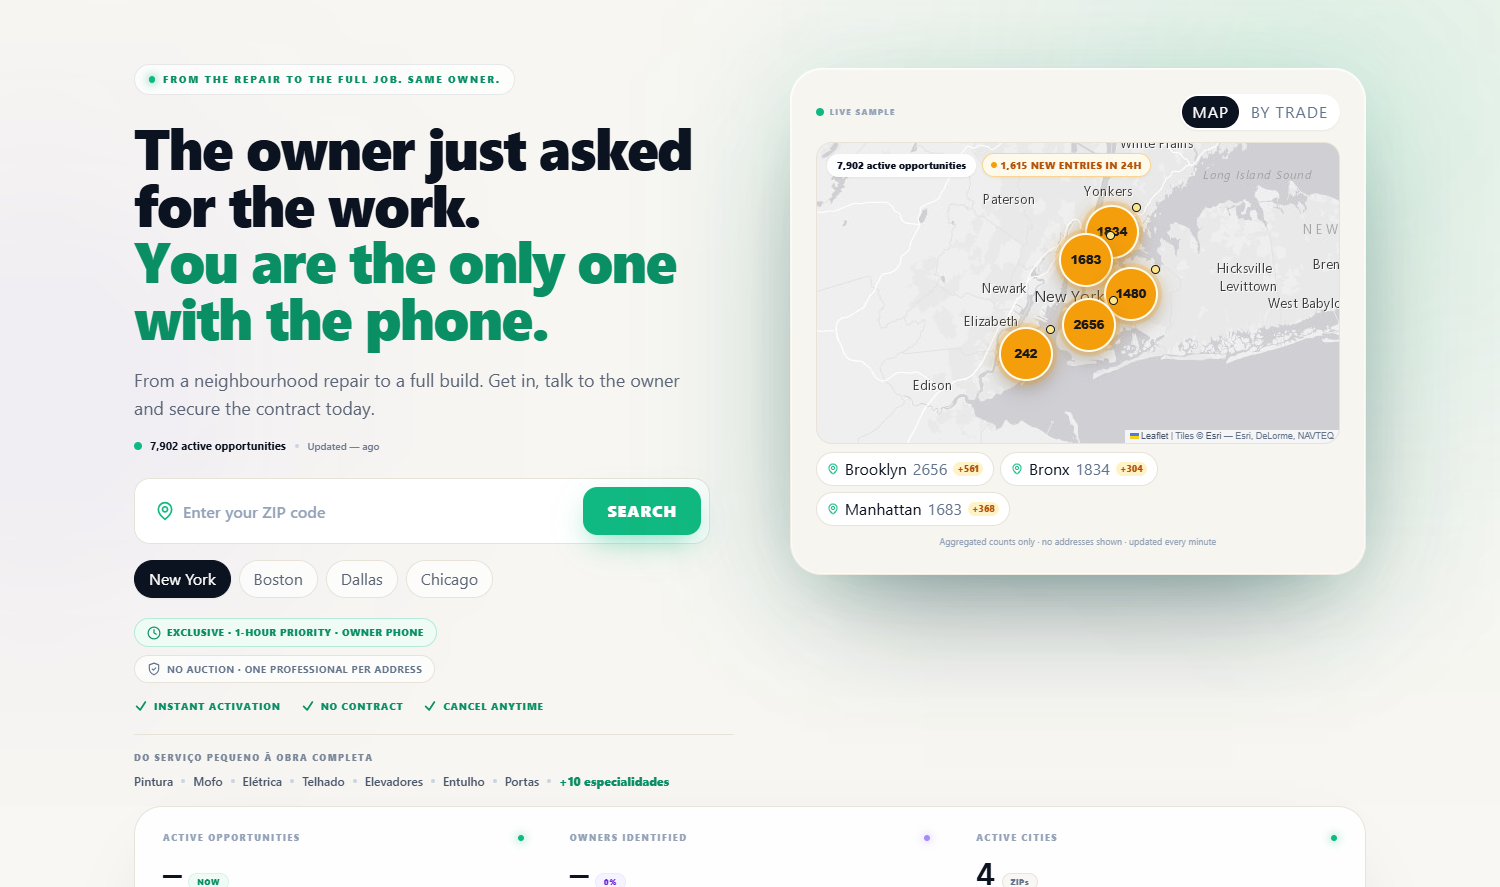
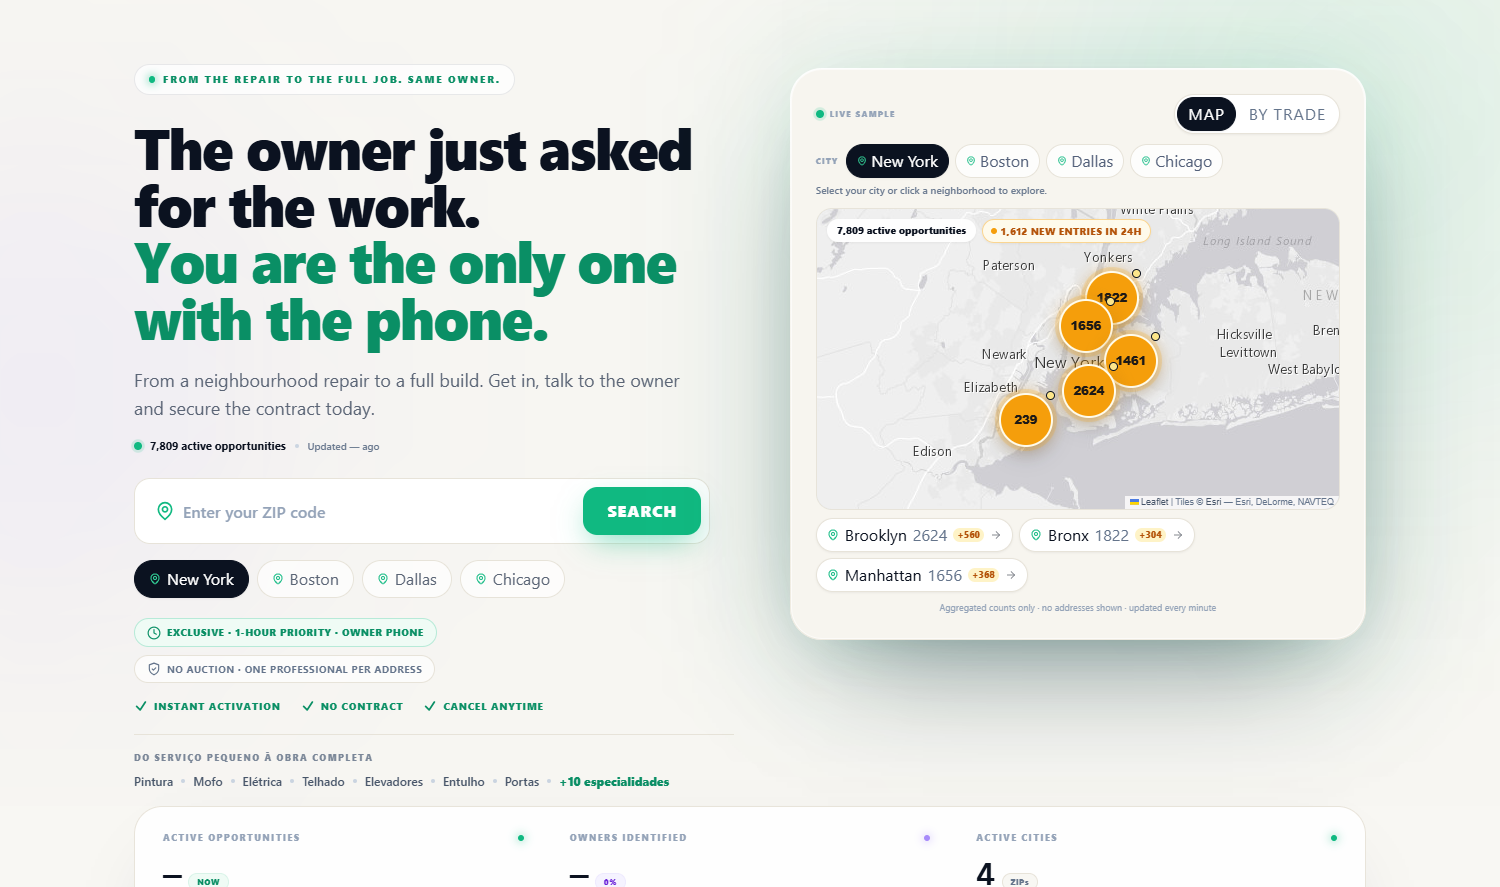
fix(landing): guide map interaction and enforce route locale
UX: adds an instruction line, a city selector inside the hero card synced with the hero chips, map-pin icons on city chips, a bordered tab control and arrow/hover affordances on neighborhood chips so the map no longer looks static.

i18n: the /en, /pt and /es prefix is now authoritative (the provider ignores stale cookies/localStorage); switching the flag navigates to the new locale while preserving query/hash, and html lang follows en-US/pt-BR/es-ES. Rewrites the map and teaser Portuguese copy in PT-BR (endereços, contatos, 'Isso está acontecendo perto de você').

Audit: validates the instruction and card selector, card/hero sync, /en with a PT cookie, flag navigation to /pt, html lang, PT-BR teaser copy and the kill-switch fallback. All checks pass; adds locale screenshots.

Changed region(s): [[0.5213, 0.0913, 0.92, 0.7914], [0.092, 0.6392, 0.368, 0.6697]]

diff --git a/frontend/app/[locale]/(marketing)/page.tsx b/frontend/app/[locale]/(marketing)/page.tsx
@@ -539,9 +539,19 @@ export default function LandingPage() {
                       key={cityName}
                       type="button"
                       onClick={() => pickHeroCity(cityName)}
+                      aria-pressed={active}
                       data-track={`hero_city_${cityName.toLowerCase().replace(/\s+/g, "_")}`}
-                      className={`rounded-full border px-3.5 py-1.5 text-[11.5px] font-bold transition ${active ? "border-[#0b1220] bg-[#0b1220] text-white shadow-sm" : "border-[#e7e3d9] bg-white/70 text-[#5b6576] hover:border-[#10b981]/45 hover:bg-white hover:text-[#0b1220]"}`}
+                      className={`inline-flex cursor-pointer items-center justify-center gap-1.5 rounded-full border px-3.5 py-1.5 text-[11.5px] font-bold transition active:scale-95 focus-visible:outline-none focus-visible:ring-2 focus-visible:ring-[#10b981]/50 ${
+                        active
+                          ? "border-[#0b1220] bg-[#0b1220] text-white shadow-sm"
+                          : "border-[#e7e3d9] bg-white/70 text-[#5b6576] hover:-translate-y-0.5 hover:border-[#10b981]/60 hover:bg-white hover:text-[#0b1220] hover:shadow-sm"
+                      }`}
                     >
+                      <MapPin
+                        className={`h-3 w-3 ${
+                          active ? "text-[#34e0a1]" : "text-[#10b981]"
+                        }`}
+                      />
                       {cityName}
                     </button>
                   );
@@ -590,7 +600,7 @@ export default function LandingPage() {
               <div className="pointer-events-none absolute -inset-6 rounded-[2.4rem] bg-[#10b981]/[0.10] blur-3xl" />
               <div className="relative w-full max-w-[620px] rounded-[2rem] bg-gradient-to-b from-white/90 via-[#f6f4ee] to-[#eeeae0] p-[1px] shadow-[0_50px_130px_-45px_rgba(15,23,42,0.55),0_20px_60px_-30px_rgba(16,185,129,0.22)]">
                 <div className="rounded-[1.95rem] border border-white/60 bg-[#f7f5ef] p-4 sm:p-6">
-                  <div className="flex items-center justify-between gap-2 pb-3">
+                  <div className="flex items-center justify-between gap-2 pb-2.5">
                     <span className="inline-flex items-center gap-1.5 text-[8px] font-black uppercase tracking-[0.16em] text-[#94a3b8]">
                       <span className="relative flex h-2 w-2">
                         <span className="absolute inline-flex h-full w-full animate-ping rounded-full bg-[#10b981] opacity-50" />
@@ -598,7 +608,7 @@ export default function LandingPage() {
                       </span>
                       {t("landing.liveMap.kicker")}
                     </span>
-                    <div className="flex items-center gap-0.5 rounded-full bg-white p-0.5 shadow-sm">
+                    <div className="flex items-center gap-0.5 rounded-full border border-[#e7e3d9] bg-white p-0.5 shadow-sm">
                       {(["map", "trades"] as const)
                         .filter((tab) => tab !== "map" || mapEnabled)
                         .map((tab) => (
@@ -608,10 +618,10 @@ export default function LandingPage() {
                           data-track={`hero_tab_${tab}`}
                           onClick={() => setHeroTab(tab)}
                           aria-pressed={heroTab === tab}
-                          className={`rounded-full px-2.5 py-1 text-[9.5px] font-black uppercase tracking-[0.06em] transition ${
+                          className={`cursor-pointer rounded-full border px-2.5 py-1 text-[9.5px] font-black uppercase tracking-[0.06em] transition active:scale-95 focus-visible:outline-none focus-visible:ring-2 focus-visible:ring-[#10b981]/50 ${
                             heroTab === tab
-                              ? "bg-[#0b1220] text-white"
-                              : "text-[#64748b] hover:text-[#0b1220]"
+                              ? "border-[#0b1220] bg-[#0b1220] text-white shadow-sm"
+                              : "border-transparent text-[#64748b] hover:border-[#e7e3d9] hover:bg-[#f7f5ef] hover:text-[#0b1220]"
                           }`}
                         >
                           {tab === "map"
@@ -621,6 +631,46 @@ export default function LandingPage() {
                       ))}
                     </div>
                   </div>
+
+                  <div className="flex flex-wrap items-center gap-1.5 pb-1.5">
+                    <span className="mr-0.5 text-[8px] font-black uppercase tracking-[0.14em] text-[#94a3b8]">
+                      {t("landing.liveMap.city_label")}
+                    </span>
+                    {CITIES.map((cityName) => {
+                      const active = !heroZip && heroCity === cityName;
+                      return (
+                        <button
+                          key={`card-${cityName}`}
+                          type="button"
+                          onClick={() => pickHeroCity(cityName)}
+                          aria-pressed={active}
+                          data-track={`card_city_${cityName
+                            .toLowerCase()
+                            .replace(/\s+/g, "_")}`}
+                          className={`inline-flex cursor-pointer items-center gap-1 rounded-full border px-2.5 py-1 text-[10px] font-bold transition active:scale-95 focus-visible:outline-none focus-visible:ring-2 focus-visible:ring-[#10b981]/50 ${
+                            active
+                              ? "border-[#0b1220] bg-[#0b1220] text-white shadow-sm"
+                              : "border-[#e7e3d9] bg-white/80 text-[#54617a] hover:-translate-y-0.5 hover:border-[#10b981]/60 hover:text-[#0b1220] hover:shadow-sm"
+                          }`}
+                        >
+                          <MapPin
+                            className={`h-2.5 w-2.5 ${
+                              active ? "text-[#34e0a1]" : "text-[#10b981]"
+                            }`}
+                          />
+                          {cityName}
+                        </button>
+                      );
+                    })}
+                    {heroZip ? (
+                      <span className="rounded-full border border-[#10b981]/30 bg-[#effbf5] px-2 py-1 text-[9.5px] font-black uppercase tracking-[0.06em] text-[#0a8f65]">
+                        ZIP {heroZip}
+                      </span>
+                    ) : null}
+                  </div>
+                  <p className="pb-2.5 text-[10px] font-medium leading-snug text-[#64748b]">
+                    {t("landing.liveMap.hint")}
+                  </p>
 
                   {heroTab === "map" ? (
                     <PublicLiveMap

diff --git a/frontend/lib/i18n/pt.ts b/frontend/lib/i18n/pt.ts
@@ -986,19 +986,22 @@ const PT: Dict = {
   "landing.liveMap.kicker": "AMOSTRA AO VIVO",
   "landing.liveMap.tab_map": "Mapa",
   "landing.liveMap.tab_trades": "Por ofício",
-  "landing.liveMap.aria": "Mapa de oportunidades ao vivo perto de si",
-  "landing.liveMap.unavailable": "Mapa ao vivo indisponível neste momento.",
-  "landing.liveMap.footnote": "Apenas contagens agregadas · sem moradas · atualizado a cada minuto",
+  "landing.liveMap.hint": "Escolha sua cidade ou clique em um bairro para explorar.",
+  "landing.liveMap.city_label": "Cidade",
+  "landing.liveMap.explore": "Explorar {zone}",
+  "landing.liveMap.aria": "Mapa de oportunidades ao vivo perto de você",
+  "landing.liveMap.unavailable": "Mapa ao vivo indisponível no momento.",
+  "landing.liveMap.footnote": "Apenas contagens agregadas · sem endereços · atualizado a cada minuto",
   "landing.mapTeaserTag": "Zona ao vivo",
   "landing.mapTeaserKicker": "Zona ao vivo",
-  "landing.mapTeaserTitle": "Isto está a acontecer perto de si",
-  "landing.mapTeaserSub": "Crie uma conta grátis para ver as moradas exatas, os contactos dos proprietários e reservar antes dos outros empreiteiros.",
-  "landing.mapTeaserStats": "{count} oportunidades abertas esta semana · {fresh} novas nas últimas 24h",
-  "landing.mapTeaserStatsNoFresh": "{count} oportunidades abertas esta semana",
-  "landing.mapTeaserUnlock1": "Morada exata e detalhes do imóvel",
-  "landing.mapTeaserUnlock2": "Contacto e telefone do proprietário",
+  "landing.mapTeaserTitle": "Isso está acontecendo perto de você",
+  "landing.mapTeaserSub": "Crie uma conta grátis para ver os endereços exatos, os contatos dos proprietários e reservar antes dos outros empreiteiros.",
+  "landing.mapTeaserStats": "{count} oportunidades abertas nesta semana · {fresh} novas nas últimas 24h",
+  "landing.mapTeaserStatsNoFresh": "{count} oportunidades abertas nesta semana",
+  "landing.mapTeaserUnlock1": "Endereço exato e detalhes do imóvel",
+  "landing.mapTeaserUnlock2": "Contato e telefone do proprietário",
   "landing.mapTeaserUnlock3": "Reserva exclusiva durante 60 minutos",
-  "landing.mapTeaserNote": "As contagens são agregadas e anonimizadas. Nenhuma morada ou dado de proprietário é mostrado publicamente.",
+  "landing.mapTeaserNote": "As contagens são agregadas e anonimizadas. Nenhum endereço ou dado de proprietário é mostrado publicamente.",
   "landing.p1Search": "Buscar",
   "landing.p1MinNotice": "Mostrando {n} especialidades com 10+ oportunidades ativas.",
   "landing.p1MinNoticeLimited": "Mostrando {n} de {total} especialidades com 10+ oportunidades ativas.",

diff --git a/frontend/components/landing/PublicLiveMap.tsx b/frontend/components/landing/PublicLiveMap.tsx
@@ -1,7 +1,7 @@
 "use client";
 
 import { useEffect, useRef, useState } from "react";
-import { MapPin } from "lucide-react";
+import { ArrowRight, MapPin } from "lucide-react";
 
 import { useI18n } from "@/lib/i18n";
 import {
@@ -259,16 +259,24 @@ export function PublicLiveMap({
               type="button"
               data-map-zone={zone.slug}
               onClick={() => onZoneSelect(zone, active?.label ?? city)}
-              className="group inline-flex items-center gap-1.5 rounded-full border border-[#e7e3d9] bg-white px-2.5 py-1 text-[10.5px] font-bold text-[#0b1220] transition hover:border-[#10b981]/50 hover:text-[#0a8f65]"
+              aria-label={t("landing.liveMap.explore").replace(
+                "{zone}",
+                zone.label
+              )}
+              title={t("landing.liveMap.explore").replace("{zone}", zone.label)}
+              className="group inline-flex cursor-pointer items-center gap-1.5 rounded-full border border-[#e7e3d9] bg-white px-2.5 py-1 text-[10.5px] font-bold text-[#0b1220] shadow-sm transition active:scale-95 hover:border-[#0a8f65] hover:bg-[#0a8f65] hover:text-white hover:shadow"
             >
-              <MapPin className="h-3 w-3 text-[#10b981]" />
+              <MapPin className="h-3 w-3 text-[#10b981] transition group-hover:text-white" />
               {zone.label}
-              <span className="text-[#64748b]">{zone.count}</span>
+              <span className="text-[#64748b] transition group-hover:text-white/80">
+                {zone.count}
+              </span>
               {zone.fresh > 0 ? (
-                <span className="rounded-full bg-[#fef3c7] px-1 text-[9px] font-black text-[#b45309]">
+                <span className="rounded-full bg-[#fef3c7] px-1 text-[9px] font-black text-[#b45309] transition group-hover:bg-white/20 group-hover:text-white">
                   +{zone.fresh}
                 </span>
               ) : null}
+              <ArrowRight className="h-3 w-3 opacity-50 transition group-hover:translate-x-0.5 group-hover:opacity-100" />
             </button>
           ))}
         </div>

diff --git a/frontend/lib/i18n.tsx b/frontend/lib/i18n.tsx
@@ -7,6 +7,7 @@ import {
   useState,
   ReactNode,
 } from "react";
+import { usePathname, useRouter } from "next/navigation";
 
 import EN from "./i18n/en";
 
@@ -19,6 +20,12 @@ export const LANGS: { code: Lang; label: string; native: string }[] = [
 ];
 
 export const LANGS_VALID: Lang[] = ["pt", "en", "es"];
+
+const HTML_LANG: Record<Lang, string> = {
+  pt: "pt-BR",
+  en: "en-US",
+  es: "es-ES",
+};
 
 const STORAGE_KEY = "NEXT_LOCALE";
 const COOKIE_KEY = "NEXT_LOCALE";
@@ -96,6 +103,8 @@ function persistLocale(l: Lang) {
 }
 
 export function LanguageProvider({ children, initialLocale }: { children: ReactNode; initialLocale?: Lang }) {
+  const router = useRouter();
+  const pathname = usePathname();
   const [lang, setLangState] = useState<Lang>(initialLocale || "en");
   const [dict, setDict] = useState<Dict>(EN);
 
@@ -104,6 +113,12 @@ export function LanguageProvider({ children, initialLocale }: { children: ReactN
     setLangState(initial);
     persistLocale(initial);
   }, [initialLocale]);
+
+  useEffect(() => {
+    if (typeof document !== "undefined") {
+      document.documentElement.lang = HTML_LANG[lang] ?? "en-US";
+    }
+  }, [lang]);
 
   useEffect(() => {
     let active = true;
@@ -129,6 +144,18 @@ export function LanguageProvider({ children, initialLocale }: { children: ReactN
   const setLang = (l: Lang) => {
     setLangState(l);
     persistLocale(l);
+    if (typeof window === "undefined") return;
+    // O prefixo da URL manda no idioma. Trocar a bandeira tem de navegar
+    // (ex.: /en/dashboard -> /pt/dashboard), não apenas trocar o dicionário.
+    const segments = (pathname || "/").split("/");
+    const current = segments[1];
+    if (!LANGS_VALID.includes(current as Lang)) return;
+    if (current === l) return;
+    const rest = segments.slice(2).join("/");
+    const suffix = rest ? `/${rest.replace(/\/+$/, "")}` : "";
+    const search = window.location.search || "";
+    const hash = window.location.hash || "";
+    router.push(`/${l}${suffix}${search}${hash}`);
   };
 
   // ICU MessageFormat pluralization support

diff --git a/frontend/lib/i18n/es.ts b/frontend/lib/i18n/es.ts
@@ -995,6 +995,9 @@ const ES: Dict = {
   "landing.liveMap.kicker": "MUESTRA EN VIVO",
   "landing.liveMap.tab_map": "Mapa",
   "landing.liveMap.tab_trades": "Por oficio",
+  "landing.liveMap.hint": "Elige tu ciudad o haz clic en un barrio para explorar.",
+  "landing.liveMap.city_label": "Ciudad",
+  "landing.liveMap.explore": "Explorar {zone}",
   "landing.liveMap.aria": "Mapa de oportunidades en vivo cerca de ti",
   "landing.liveMap.unavailable": "Mapa en vivo no disponible en este momento.",
   "landing.liveMap.footnote": "Solo recuentos agregados · sin direcciones · actualizado cada minuto",

diff --git a/frontend/lib/i18n/en.ts b/frontend/lib/i18n/en.ts
@@ -996,6 +996,9 @@ const EN: Dict = {
   "landing.liveMap.kicker": "LIVE SAMPLE",
   "landing.liveMap.tab_map": "Map",
   "landing.liveMap.tab_trades": "By trade",
+  "landing.liveMap.hint": "Select your city or click a neighborhood to explore.",
+  "landing.liveMap.city_label": "City",
+  "landing.liveMap.explore": "Explore {zone}",
   "landing.liveMap.aria": "Map of live opportunities near you",
   "landing.liveMap.unavailable": "Live map unavailable right now.",
   "landing.liveMap.footnote": "Aggregated counts only · no addresses shown · updated every minute",

diff --git a/frontend/components/landing/LandingShell.tsx b/frontend/components/landing/LandingShell.tsx
@@ -135,10 +135,6 @@ export default function LandingShell({ children }: { children: React.ReactNode }
   const [modalContext, setModalContext] = useState<ModalContext | null>(null);
 
   useEffect(() => {
-    document.documentElement.lang = lang;
-  }, [lang]);
-
-  useEffect(() => {
     const onScroll = () => setScrolled(window.scrollY > 8);
     onScroll();
     window.addEventListener("scroll", onScroll, { passive: true });

diff --git a/frontend/app/globals.css b/frontend/app/globals.css
@@ -1331,6 +1331,7 @@
   font-size: 11.5px;
   font-weight: 800;
   line-height: 1;
+  cursor: pointer;
   box-shadow: 0 8px 20px rgba(15, 23, 42, 0.28);
   transition: transform 0.15s ease, background 0.15s ease;
 }

diff --git a/docs/LANDING-LIVE-MAP-PLAN.md b/docs/LANDING-LIVE-MAP-PLAN.md
@@ -80,17 +80,34 @@ cálculo corre no máximo **1×/min**, independentemente do tráfego.
 ## 5. UX
 
 - O painel direito do herói ganhou as abas **Map** (defeito) e **By trade**
-  (a grelha existente, sem regressões).
+  (a grelha existente, sem regressões), com borda, hover e `aria-pressed`.
+- **Instrução explícita** no cartão: “Select your city or click a neighborhood
+  to explore.” (PT-BR/ES equivalentes).
+- **Seletor de cidade dentro do cartão** (New York/Boston/Dallas/Chicago) com
+  ícone de mapa, sincronizado com os chips do herói; os chips do herói também
+  têm ícone, `aria-pressed`, hover com elevação e estado `active`.
 - Mapa com bolhas de contagem, halo âmbar nos frescos, overlay
-  `N opportunities` + `N new in 24h`, e as 3 zonas mais quentes em chips.
-- Cidade partilhada com os chips do herói; ZIP muda automaticamente para
-  “By trade”.
+  `N opportunities` + `N new in 24h`, e as 3 zonas mais quentes em chips com
+  seta `→`, hover verde e `aria-label` (“Explore {zone}”).
+- ZIP muda automaticamente para “By trade” e mostra o chip `ZIP xxxxx`.
 - Clique numa zona abre o **teaser** no modal: `LIVE AREA · <cidade>`,
   `<zona>`, contagem + frescos, 3 benefícios e `AuthForm` já em modo
   **Create account** (com empresa).
 - Mobile: cartão abaixo do ZIP, 300 px, `scrollWheelZoom` desligado, chips
   acessíveis por teclado.
 - `prefers-reduced-motion` desliga a pulsação.
+
+## 5.1 Idioma — a rota manda
+
+- O prefixo `/en`, `/pt` ou `/es` é a **única fonte de verdade** do idioma
+  renderizado: o layout passa `initialLocale` ao provider, que ignora
+  `localStorage`/cookie antigos.
+- Trocar a bandeira **navega** para o novo prefixo (`/en/dashboard` →
+  `/pt/dashboard`), preservando query/hash; já não há conteúdo PT com URL EN.
+- `<html lang>` é `en-US`, `pt-BR` ou `es-ES` no SSR e no cliente.
+- Copy PT do mapa/teaser revista para **PT-BR** (“Isso está acontecendo perto
+  de você”, “endereços”, “contatos”), sem formas PT-PT (“moradas”,
+  “contactos”, “perto de si”).
 
 ## 6. Ficheiros
 
@@ -99,7 +116,8 @@ cálculo corre no máximo **1×/min**, independentemente do tráfego.
 - `backend/data/zip_centroids.json` (centroides de Dallas/Boston/NYC).
 - `frontend/components/landing/PublicLiveMap.tsx` (novo),
   `LandingShell.tsx` (contexto do modal), `AuthForm.tsx` (`initialRegister`),
-  `(marketing)/page.tsx` (abas), `lib/api-client.ts`, i18n EN/PT/ES,
+  `(marketing)/page.tsx` (abas + seletor), `lib/i18n.tsx` (rota manda +
+  navegação da bandeira), `lib/api-client.ts`, i18n EN/PT/ES,
   `app/globals.css`.
 - `frontend/scripts/audit-landing-map.mjs` (novo).
 - `tests/test_public_map.py`, `tests/test_public_map_api.py`.
@@ -112,12 +130,15 @@ node scripts/audit-landing-map.mjs
 ```
 
 Cobre: latência <50 ms, 4 cidades, igualdade com o trade grid, ausência de
-campos privados, piso de 5, frescos ≥3, coordenadas a 3 casas, ETag/304, mapa
-por defeito, bolhas + chips, troca de cidade, aba By trade, teaser e modo de
-registo. **ALL PASS** (endpoint 0,5–1,8 ms).
+campos privados, piso de 5, frescos ≥3, coordenadas a 3 casas, ETag/304,
+instrução e seletor de cidade no cartão, sincronização cartão/herói, mapa por
+defeito, bolhas + chips, aba By trade, teaser e modo de registo. Inclui ainda
+**/en com cookie PT**, troca de bandeira para `/pt`, `lang=en-US`/`pt-BR`,
+copy PT-BR do teaser e regresso a `/en`. **ALL PASS** (endpoint 0,5–1,8 ms).
 
 Capturas: `reports/landing-live-map-preview/01-hero-map.png`,
-`02-hero-trades.png`, `03-teaser-modal.png`.
+`02-hero-trades.png`, `03-teaser-modal.png`, `04-locale-en.png`,
+`05-locale-pt-teaser.png`.
 
 ## 8. Antes de produção
 

diff --git a/reports/AUDIT-2026-11-15-SISTEMA.md b/reports/AUDIT-2026-11-15-SISTEMA.md
@@ -237,12 +237,24 @@ desta auditoria verde; o deploy deve correr o índice e a migração de cidades
   **6,5 MB**, plano `SEARCH … USING INDEX … (city=? AND date_reported>?)`.
 - **Produção (cópia de 135.951 linhas):** as 4 cidades numa query em
   **16,1 ms** (15,0–16,9 ms); cache in-process de 60 s → ≤1 cálculo/min.
-- **Audit local `audit-landing-map.mjs`: ALL PASS** — endpoint 0,6–1,1 ms,
+- **Audit local `audit-landing-map.mjs`: ALL PASS** — endpoint 0,6–1,8 ms,
   mapa por defeito, 5 bolhas + 3 chips, troca de cidade (Boston 176),
   separador By trade, teaser com “Dorchester · 26” e formulário em modo
   **Create account**.
+- **UX guiada (v2):** instrução “Select your city or click a neighborhood to
+  explore.”, seletor de cidade dentro do cartão sincronizado com o herói,
+  ícones de mapa nos chips, setas `→` e hover/active nos bairros, abas com
+  borda e `aria-pressed`.
+- **i18n (v2):** o prefixo da URL manda (`/en` abre EN mesmo com cookie PT);
+  trocar a bandeira **navega** para `/pt`/`/es` preservando query/hash;
+  `<html lang>` = `en-US`/`pt-BR`/`es-ES`. Copy PT do mapa/teaser em **PT-BR**
+  (“Isso está acontecendo perto de você”, “endereços”, “contatos”).
+- **Audit v2:** valida instrução, seletor do cartão, sincronização
+  cartão↔herói, `/en` com cookie PT, navegação da bandeira, `lang` e ausência
+  de PT-PT no teaser — **ALL PASS**.
 - **Kill switch:** `PUBLIC_LIVE_MAP_ENABLED=0` → 503 `live_map_disabled`; o
   frontend esconde a aba Map e mantém “By trade”.
 - **Capturas:** `reports/landing-live-map-preview/01-hero-map.png`,
-  `02-hero-trades.png`, `03-teaser-modal.png`.
+  `02-hero-trades.png`, `03-teaser-modal.png`, `04-locale-en.png`,
+  `05-locale-pt-teaser.png`.
 - **Plano completo:** `docs/LANDING-LIVE-MAP-PLAN.md`.
